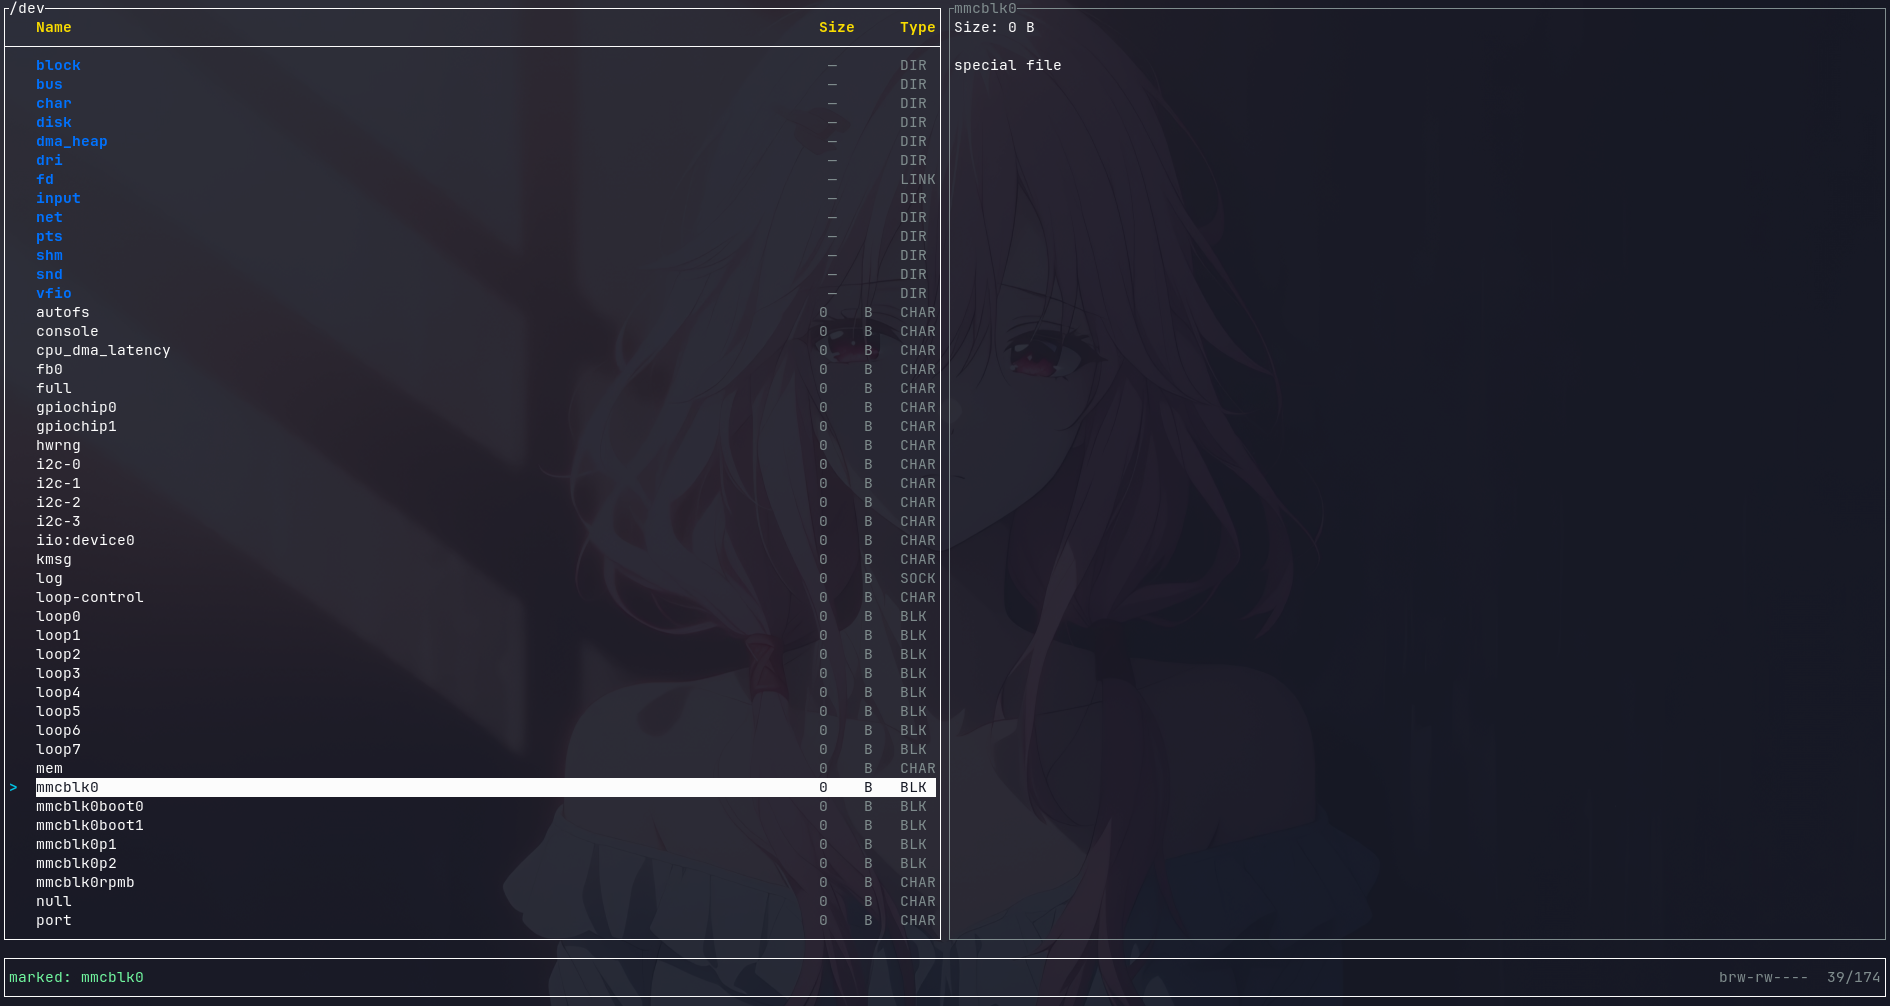
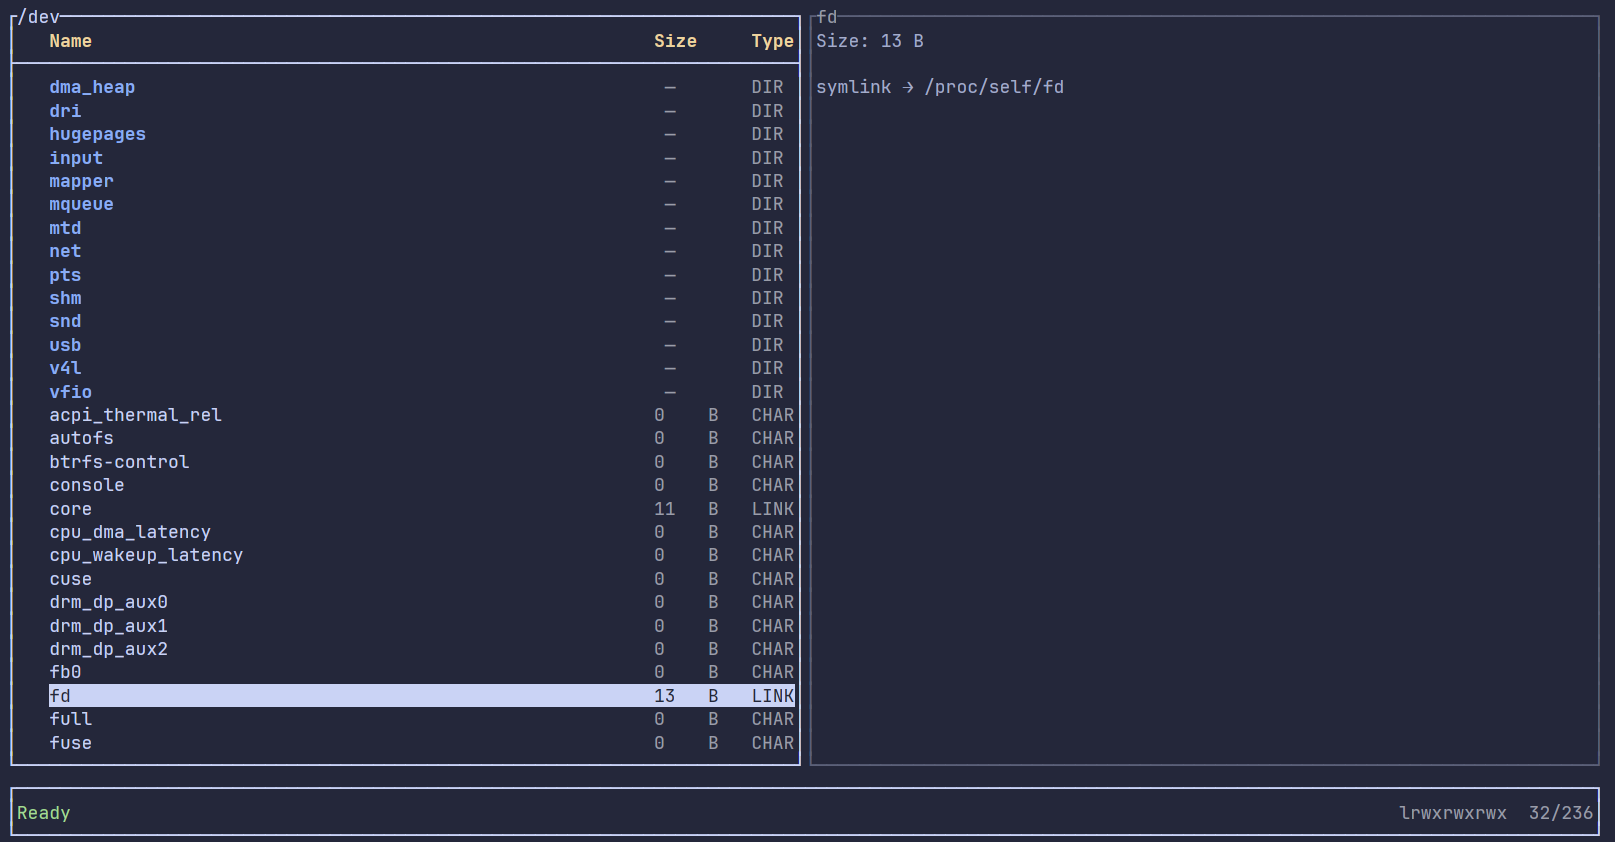
docs: update README

Changed region(s): [[0.0, 0.0, 1.0, 1.0]]

diff --git a/README.md b/README.md
@@ -54,5 +54,7 @@ linker = "arm-linux-gnueabihf-gcc"
 | d         | Delete                  | Unrecoverable                        |
 | n   m     | New file / New dir      | Enter name in input mode             |
 | r         | Rename selected         | Pre-fills name in input mode         |
-| u         | Undo last operation     | Most ops                             |
-| q   Esc   | Quit / Cancel input     | Escape hatches everywhere            |
+| u         | Undo last operation     | Couldn't undo delete                 |
+| Esc       | Cancel input            | Escape hatches everywhere            |
+| Q         | Quit                    | Returns to the launch directory      |
+| q         | Quit + cd               | cd to current browsed dir on exit    |